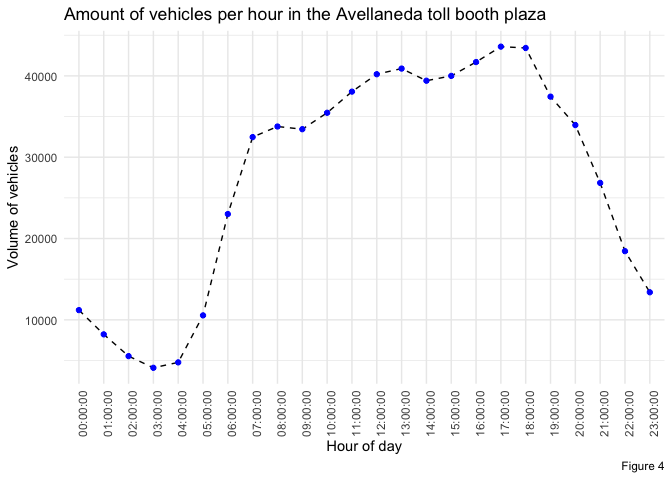
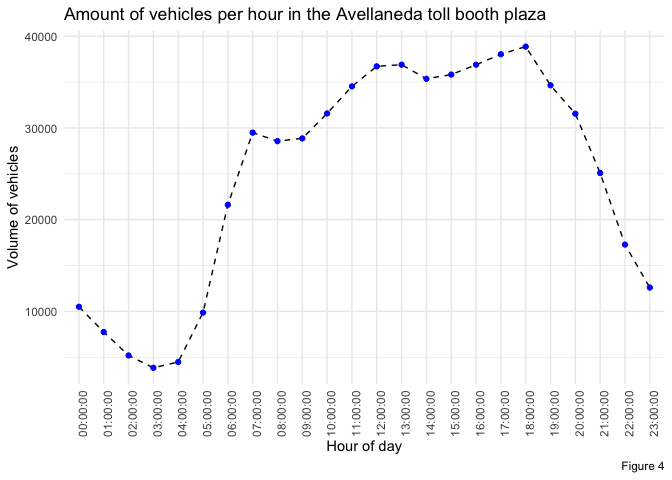
Revised the service rate, and measured the impact of automatic toll booths in the service time.

diff --git a/time-estimation/README.md b/time-estimation/README.md
@@ -53,7 +53,7 @@ Up to now we've been working with the dataset without validating whether all the
 
 ##### Assumptions
 
--   As you can see from the above links the amount of toll booths per lane was manually counted using Google Maps. However, these amounts are not fixed, and depend on date and time, in order to accomodate the service to the incoming volume of vehicles. The are no official communications from AUSA on how those changes are performed, so for the sake of this analysis the average amount of lanes which will be mostly active during peak hours.
+-   As you can see from the above links the amount of toll booths per lane was manually counted using Google Maps. However, these amounts are not fixed, and depend on date and time, in order to accomodate the service to the incoming volume of vehicles. The are no official communications from AUSA on how those changes are performed, so for the sake of this analysis the amount of toll booths to use would be the sum of those going in and those going out of the city. This is due to the fact that the information provided is aggregated to a level that does not provide visibility on the direction of the vehicles.
 
 -   Building on this last point, it will be assumed the vast majority of the traffic during the morning peak hour is heading towards the city, while the traffic during the afternoon peak hour is leaving the city.
 
@@ -69,16 +69,20 @@ In the previous section we discussed the need of computing the arrival rate *λ*
 
 Going back to what was mentioned at the beginning of this section, traffic intensity was defined as the ratio between the arrival rate *λ* and the service rate *μ*, so that *λ* &lt; *μ*. Expressed that way *μ* comprises the capacity of all toll booths in a toll booth plaza, so it might be more accurate to express the traffic intensity as *λ* &lt; *S**μ*, where *S* is the amount of servers which in this case are represented by toll booths. Following the third assumption in the assumptions section, as all toll booths are considered equal, we can express the total capacity of the system by multipying an individual toll booth capacity by the amount of toll booths in a toll booth plaza.
 
-The next two subsections will be focused on the *Avellaneda* toll booth plaza given that it's the toll booth with the highest volume of vehicles, and with an average of 16.5 toll booths. The amount of vehicles that arrive on each hour to the toll booth, as shown in Figure 4, is computed considering only the information from January 2014 to December 2018, due to the [asymmetries in the dataset](https://github.com/tulians/traffic/tree/master/descriptive#increment-in-traffic).
+The next two subsections will be focused on the *Avellaneda* toll booth plaza given that it's the toll booth with the highest volume of vehicles, and with an average of 33 toll booths. The amount of vehicles that arrive on each hour to the toll booth, as shown in Figure 4, is computed considering only the information from January 2014 to December 2018, due to the [asymmetries in the dataset](https://github.com/tulians/traffic/tree/master/descriptive#increment-in-traffic).
 
 ![](README_files/figure-markdown_github/avellanedavehiclesperhour-1.png)
 
 ##### Assumption of 90% utilization
 
-An initial approach to the estimation of time-spent on queues would be to assume that toll booths are operating at 90% of their capacity. This is because it makes sense to think that toll booth plazas were designed to be a stable system, due to the fact that even though long queues happen, and frequently during peak hours, they are eventually served up to the point that there's no queue left. In this scenario, each toll booth at the *Avellaneda* toll booth plaza is able to serve up to 2935.7725197 vehicles in an hour. This figure comes from
+An initial approach to the estimation of time-spent on queues would be to assume that toll booths are operating at 90% of their capacity. It actually makes sense to think that toll booth plazas were designed to be a stable system, due to the fact that even though long queues happen, and frequently during peak hours, they are eventually served up to the point that there's no queue left. In this scenario, each toll booth at the *Avellaneda* toll booth plaza is able to serve up to 836.1466261 vehicles in an hour. This figure comes from
 
-$$\frac{\lambda}{S\mu} \leq \rho \Longrightarrow \mu \geq \frac{\lambda}{S\rho} \Longrightarrow \mu \geq \frac{43596.2}{16.5 \cdot 0.9} = 2935.77$$
+![](images/mu.png)
 
-where *λ* is equal to the 43596.2 vehicles per hour at 5PM shown in Figure 4, the number of servers *S* is 16.5, and the utilization/traffic intensity *ρ* is 90%. This result means that in order for the system (toll booth plaza) to be operating at 90% of its capacity each server (toll booth) needs to service at least 2935.77 vehicles per hour. Summing up each server contribution, 48440.2 vehicles can be serviced in an hour by this system.
+where *λ* is equal to the 24833.55 vehicles per hour, the average of the amount of vehicles per hour shown in Figure 4, the number of servers *S* is 33, and the utilization/traffic intensity *ρ* is 90%. This result means that in order for the system (toll booth plaza) to be operating at 90% of its capacity each server (toll booth) needs to service at least 836.15 vehicles per hour. Summing up each server contribution, 27592.84 vehicles can be serviced in an hour by this system. Servicing 836.15 vehicles in an hour means that on average 13.94 vehicles are serviced per minute.
+
+Although this number may seem high, it's important to mention that it includes the impact from automatic toll booths, which can service more vehicles that manual toll booths. For the concrete case of the *Avellaneda* toll booth plaza, automatic payments constitute 34.44% of the payments volume. The specific percentages for each our are detailed in Figure 5.
+
+![](README_files/figure-markdown_github/percentagegraph-1.png)
 
 ##### Deriving service rate empirically
